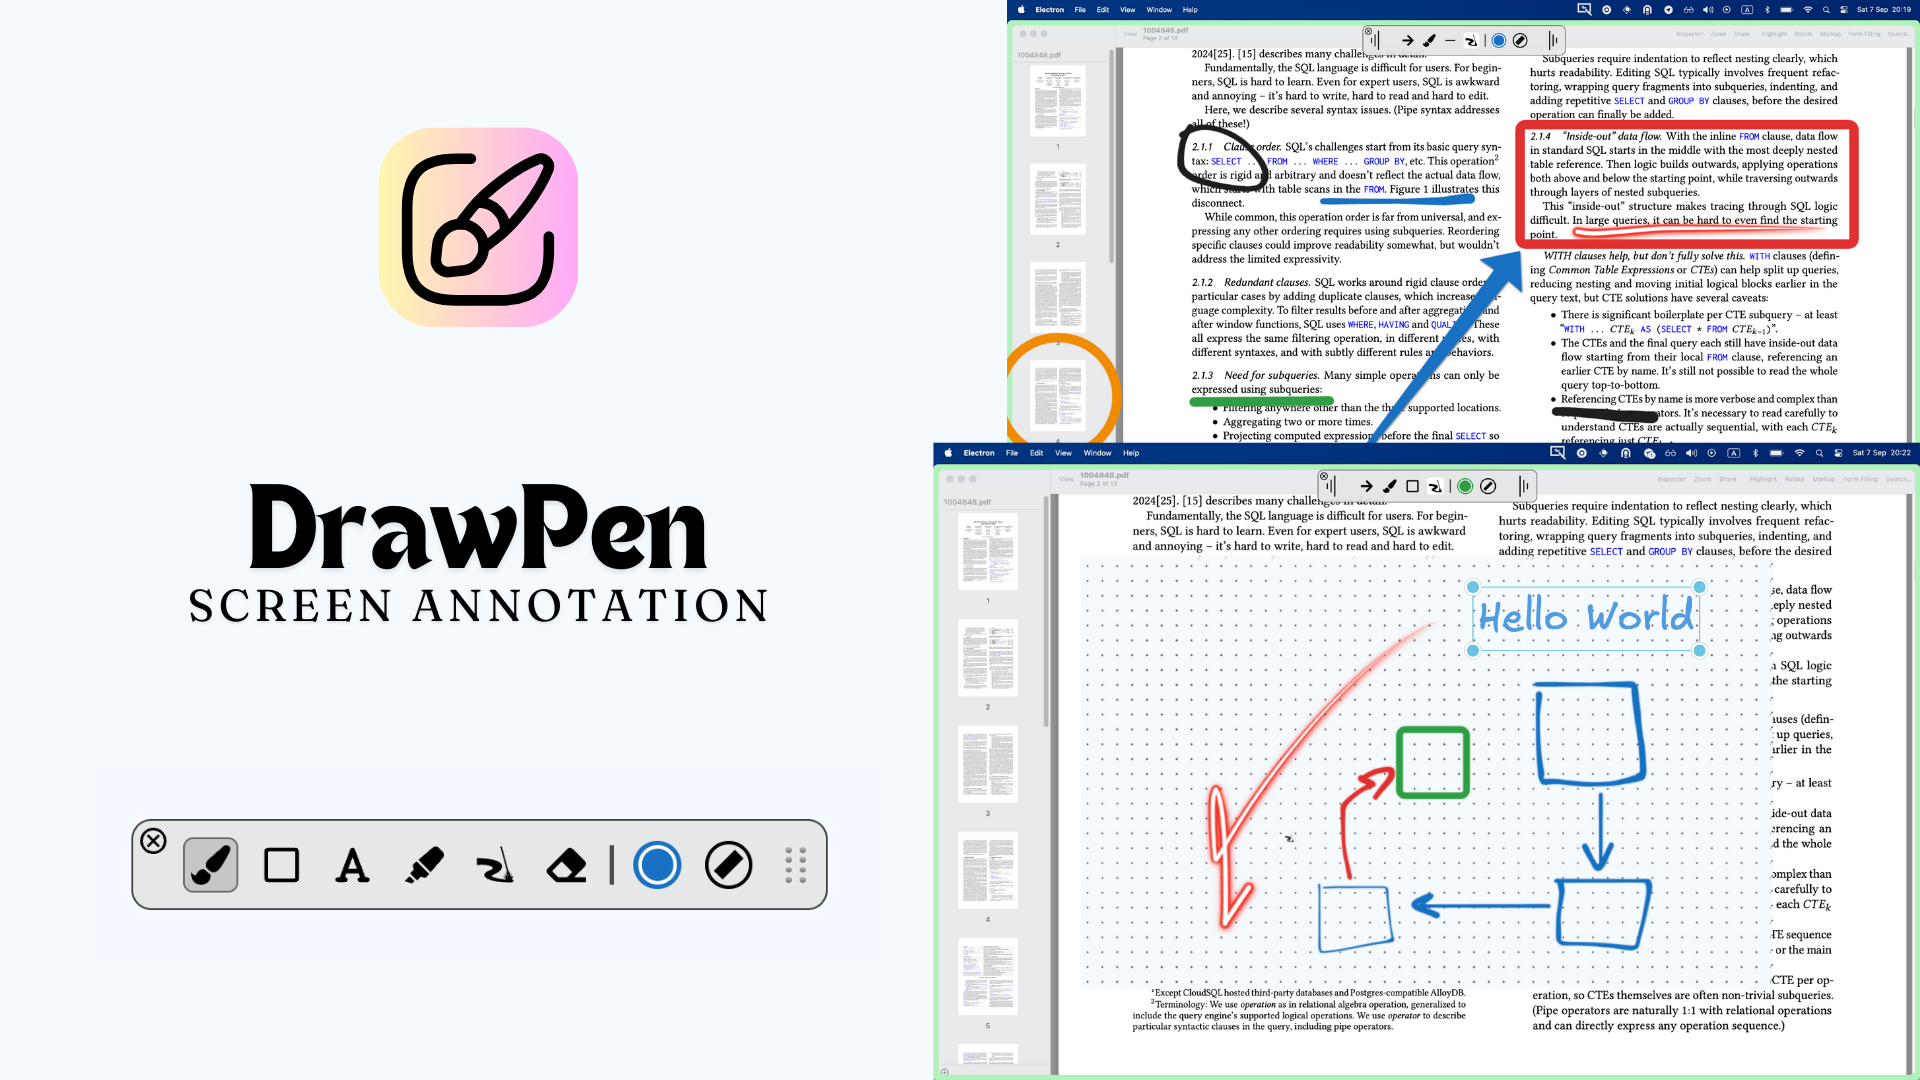
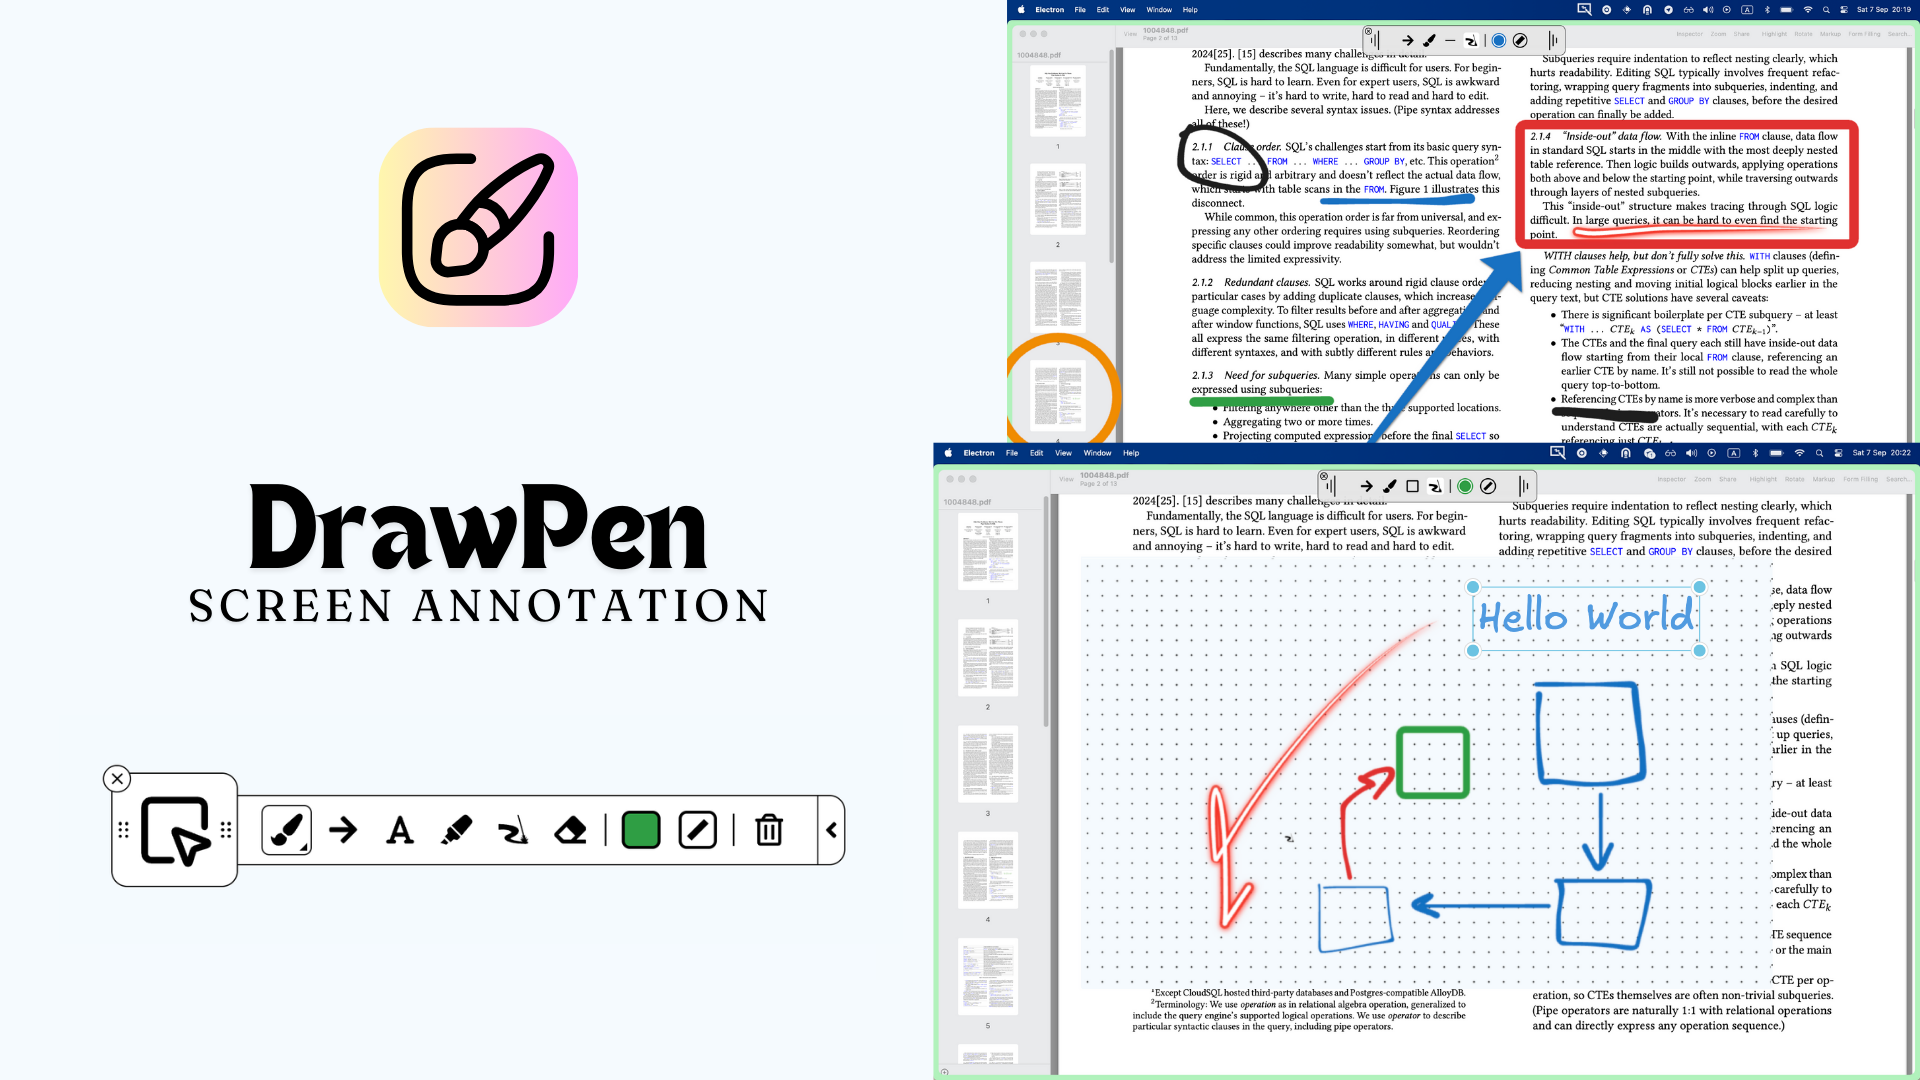
Update Changelog

Changed region(s): [[0.0625, 0.7028, 0.4375, 0.8556]]

diff --git a/README.md b/README.md
@@ -1,17 +1,17 @@
 <p align="center">
   <img src="https://github.com/DmytroVasin/DrawPen/blob/main/assets/static/icon.png?raw=true" height="200">
   <h3 align="center">Draw Pen</h3>
-  <p align="center">An open-source screen annotation tool<p>
+  <p align="center">An open-source screen annotation tool</p>
 </p>
 
 <p align="center">
   <a href='https://github.com/DmytroVasin/DrawPen/releases/latest/download/DrawPen.Setup.exe'>
     <img alt='Get it on Windows' width="134px" src='https://github.com/DmytroVasin/DrawPen/blob/main/assets/static/BadgeWindows.png?raw=true'/>
   </a>
-  <a href='https://github.com/DmytroVasin/DrawPen/releases/latest/download/DrawPen-0.0.43-arm64.dmg'>
+  <a href='https://github.com/DmytroVasin/DrawPen/releases/latest/download/DrawPen-0.0.44-arm64.dmg'>
     <img alt='Get it on macOS' width="134px" src='https://github.com/DmytroVasin/DrawPen/blob/main/assets/static/BadgeMacOS.png?raw=true'/>
   </a>
-  <a href='https://github.com/DmytroVasin/DrawPen/releases/latest/download/drawpen_0.0.43_amd64.deb'>
+  <a href='https://github.com/DmytroVasin/DrawPen/releases/latest/download/drawpen_0.0.44_amd64.deb'>
     <img alt='Get it on Linux' width="134px" src='https://github.com/DmytroVasin/DrawPen/blob/main/assets/static/BadgeLinux.png?raw=true'/>
   </a>
 </p>
@@ -50,7 +50,7 @@ On some Linux setups running **Wayland** (e.g. [Fedora KDE Plasma](https://githu
 
 | Command                                 | Keybindings                                                  | Comment |
 | --------------------------------------- | ------------------------------------------------------------ | - |
-| Show/Hide App                           | <kbd>CMD/CTRL + SHIFT + A</kbd> | Global shortcut |
+| Enable Draw/Pointer Mode                | <kbd>CMD/CTRL + SHIFT + A</kbd> | Global shortcut |
 | Activate Pen                            | <kbd>1</kbd> | |
 | Activate/Switch Shapes (Arrow/Square/etc.)   | <kbd>2</kbd> | |
 | Activate Text                           | <kbd>3</kbd> | |

diff --git a/CHANGELOG.md b/CHANGELOG.md
@@ -1,5 +1,11 @@
 # Change Log
 
+## [0.0.44] - 2026-03-07
+### Features:
+- Added Pointer Mode (compact floating control that lets users switch into Draw Mode)
+- App starts in Pointer Mode
+- Added a collapsible toolbar layout for a more compact drawing UI.
+
 ## [0.0.43] - 2026-02-20
 ### Features:
 - Added Clear Desk tool to the toolbar.
